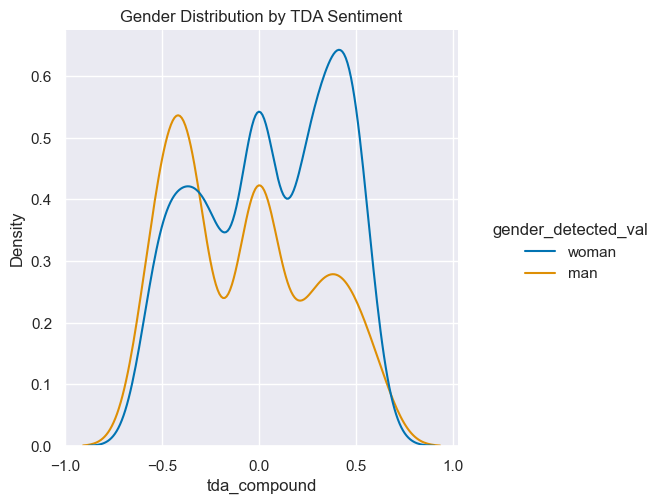
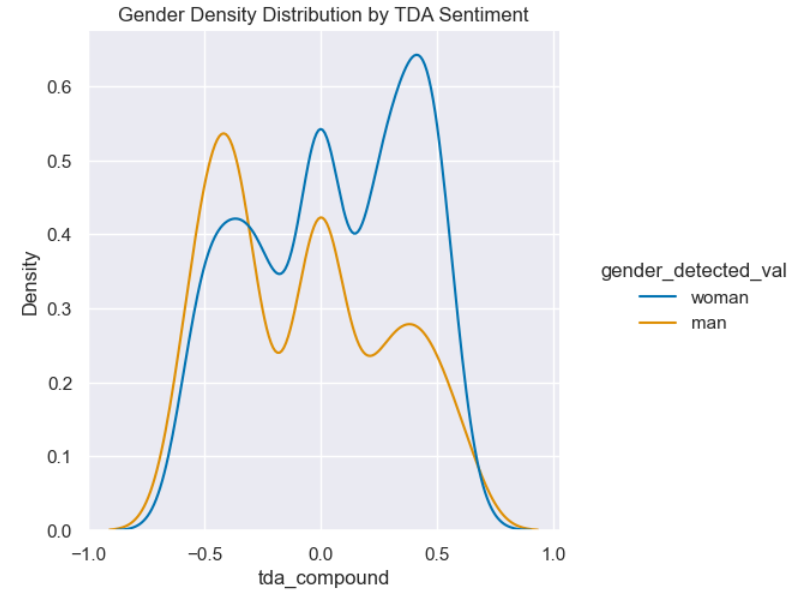
updated readme plots

diff --git a/README.md b/README.md
@@ -28,13 +28,13 @@ The word bank of trait descriptive adjectives (TDA) was obtained from [Harvard D
  Words contained in the adjective column of the masterkeys.csv were extracted and deduplicated producing a word bank of 2,818 traits. Vader Sentiment's[^7] sentiment intensity analyzer was used to output a compound score for each trait. Due to the fact that the majority of trait descriptive adjectives were of a neutral sentiment (0.0 compound) and because we wanted to ensure that generated prompts accounted for a full range of sentiment scores, we created sentiment categories based on the distribution of the compound score. 
 Sentiment categories and trait counts per category are defined as follows  
   
-| Sentiment Category   | Number of Traits     | Sentiment Range              |  
-|--------------------  |------------------    |---------------------------   |  
-| Very Negative        | 164                  | compound < -0.4              |  
-| Negative             | 190                  | compound < 0.0 &  >= -0.4    |  
-| Neutral              | 2157                 | compound == 0.0              |  
-| Positive             | 120                  | compound > 0.0 &  <= .4      |  
-| Very Positive        | 187                  | compound > .4                |  
+| Sentiment Category   | Number of Traits     | Sentiment Range              |
+|--------------------  |------------------    |---------------------------   |
+| Very Negative        | 164                  | compound < -0.4              |
+| Negative             | 190                  | compound < 0.0 &  >= -0.4    |
+| Neutral              | 2157                 | compound == 0.0              |
+| Positive             | 120                  | compound > 0.0 &  <= .4      |
+| Very Positive        | 187                  | compound > .4                |
   
 The full workflow is viewable in one_time_external_data_processing_TDA.py  
   
@@ -46,13 +46,13 @@ In order to capture occupational titles at their most granular level, the raw da
  In order to ensure that generated prompts accounted for the wide range of salary wages for occupations, we created wage categories based on the distribution of the annual median wage.
 Wage categories and occupation counts per category are outlined as follows:   
   
-| Wage Category    | Number of Occupations    | Wage Range                                   |  
-|---------------   |-----------------------   |--------------------------------------------- |  
-| Very Low         | 50                       | Annual Median Wage <= 35000.0                |  
-| Low              | 133                      | Annual Median Wage > 35000.0  &  <= 50000.0  |  
-| Middle           | 114                      | Annual Median Wage > 50000.0  &  <= 80000.0  |  
-| High             | 61                       | Annual Median Wage > 80000.0 & <= 105000.0   |  
-| Very High        | 52                       | Annual Median Wage > 105000.0                |  
+| Wage Category    | Number of Occupations    | Wage Range                                   |
+|---------------   |-----------------------   |--------------------------------------------- |
+| Very Low         | 50                       | Annual Median Wage <= 35000.0                | 
+| Low              | 133                      | Annual Median Wage > 35000.0  &  <= 50000.0  |
+| Middle           | 114                      | Annual Median Wage > 50000.0  &  <= 80000.0  |
+| High             | 61                       | Annual Median Wage > 80000.0 & <= 105000.0   |
+| Very High        | 52                       | Annual Median Wage > 105000.0                |
   
 The full workflow is viewable in one_time_external_data_processing_Occupations.py  
   
@@ -196,13 +196,13 @@ Once the skin pixels have been identified, the color extractor summarizes the pi
 ### Results of image evaluation workflow   
 Upon going through the image evaluation workflow, the resulting output CSVs include a CSV with uncalibrated Deepface predictions and a CSV with calibrated Deepface predictions. Each CSV contains information about the following:  
 
-| Column Name     | Value Description |  
-| ----------- | ----------- |  
-| image      | image name/path       |  
-| label   | 0 indicating that the image is of a woman, 1 indicating that the image is of a man        |  
-| bbox   | contains the bounding box coordinates of the face detection (Ex: {'x': 230, 'y': 120, 'w': 36, 'h': 45})        |  
-| gender.Woman   | probability that the image is a woman        |  
-| gender.Man   | probability that the image is a man|  
+| Column Name     | Value Description |
+| ----------- | ----------- |
+| image      | image name/path       |
+| label   | 0 indicating that the image is of a woman, 1 indicating that the image is of a man        |
+| bbox   | contains the bounding box coordinates of the face detection (Ex: {'x': 230, 'y': 120, 'w': 36, 'h': 45})        |
+| gender.Woman   | probability that the image is a woman        |
+| gender.Man   | probability that the image is a man|
 
 *****   
 
@@ -221,13 +221,13 @@ As a demonstration, here are all the skin color determinations from our prompt r
 ### Lightness of Skin by Occupations  
 We compared the Luma skin lightness proxy values to the median annual salary of professions supplied in the image generation prompts and found that there was a significant difference in mean skin lightness between groups (p=9.7e-9).  
   
-![plot](data/readme_figures/evaluation_figures/skin_color_intensity_median_salary_violin.png)  
+![plot](data/readme_figures/evaluation_figures/skin_color_intensity_median_salary_violin.PNG)  
 <p><i>Fig. 10 - Skin Color Intensity Binned by Median Salary </i>   
   
 ### Lightness of Skin by Trait Sentiment
 We also compared the Luma skin lightness to the trait sentiments of our prompts and found that again, there was a significant difference in mean skin lightness between groups (p=2.3e-6).  
   
-![plot](data/readme_figures/evaluation_figures/skin_color_intensity_tda_sentiment_violin.png)  
+![plot](data/readme_figures/evaluation_figures/skin_color_intensity_tda_sentiment_violin.PNG)  
 <p><i>Fig. 11 - Skin Color Intensity Binned by TDA Sentiment Score</i>   
   
 ### Detected Gender  
@@ -236,13 +236,13 @@ A separate aspect of bias that could be present in image generation models is di
 ### Detected Gender by Occupations  
 We first looked at the gender of generated "people" to determine how males and females were represented, based on the median annual salary and found that women were much more likely (p=1.7e-27) to represent occupations with lower median annual salaries (median $48,260) than men (median $93,070) in our data.  
   
-![plot](data/readme_figures/evaluation_figures/gender_median_salary.png)  
+![plot](data/readme_figures/evaluation_figures/gender_median_salary.PNG)  
 <p><i>Fig. 12 - Gender Distribution by Annual Median Salary </i>   
   
 ### Detected Gender by Trait Sentiment  
 We also looked at the gender of generated "people" to determine how males and females were represented, based on the trait sentiment within the prompt and found that women were much more likely (p=5.9e-11) to represent positive traits than men were, in our data.  
   
-![plot](data/readme_figures/evaluation_figures/gender_tda_sentiment.png)  
+![plot](data/readme_figures/evaluation_figures/gender_tda_sentiment.PNG)
 <p><i>Fig. 13 - Gender Distribution by TDA Sentiment Score </i>  
 
 *****  
